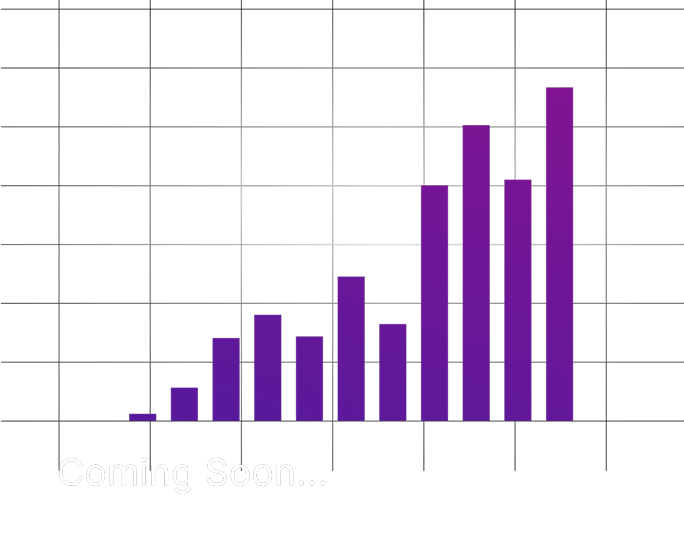
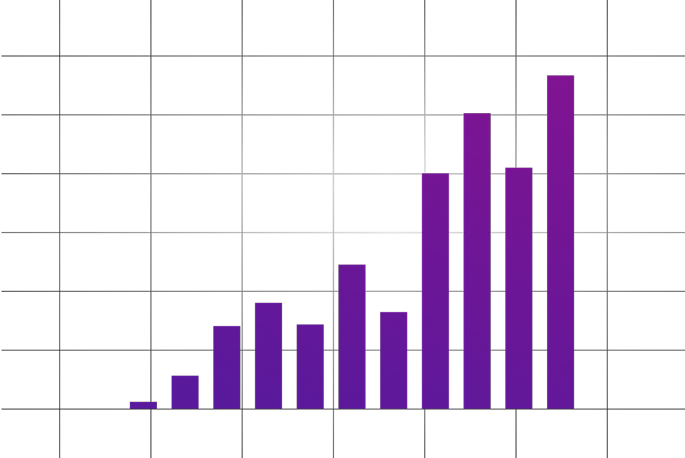
Dashboard auth page  (#1713)
* New images

* Add auth page

* Horizontal image

diff --git a/pages/dashboard/wallets/auth.tsx b/pages/dashboard/wallets/auth.tsx
@@ -1,0 +1,174 @@
+import { Flex, ListItem, SimpleGrid, UnorderedList } from "@chakra-ui/react";
+import { AppLayout } from "components/app-layouts/app";
+import { WalletsSidebar } from "core-ui/sidebar/wallets";
+import { PageId } from "page-id";
+import { ThirdwebNextPage } from "utils/types";
+import { Card, Heading, Text, TrackedLink } from "tw-components";
+import React, { useState } from "react";
+import { CodeSegment } from "components/contract-tabs/code/CodeSegment";
+import { CodeEnvironment } from "components/contract-tabs/code/types";
+
+const TRACKING_CATEGORY = "auth";
+
+const authSnippets = {
+  javascript: `import { ThirdwebSDK } from "@thirdweb-dev/sdk/evm";
+
+const sdk = new ThirdwebSDK("goerli");
+
+// Login with a single line of code
+const payload = await sdk.auth.login();
+
+// And verify the address of the logged in wallet
+const address = await sdk.auth.verify(payload);`,
+  react: `import { useSDK } from "@thirdweb-dev/react";
+
+export default function App() {
+ const sdk = useSDK();
+
+ async function login() {
+  // Login with a single line of code
+  const payload = await sdk.auth.login();
+
+  // And verify the address of the logged in wallet
+  const address = await sdk.auth.verify(payload);
+ }
+}`,
+  "react-native": "",
+  python: `from thirdweb import ThirdwebSDK
+
+sdk = ThirdwebSDK("goerli")
+
+# Login with a single line of code
+payload = sdk.auth.login();
+
+# And verify the address of the logged in wallet
+address = sdk.auth.verify(payload);`,
+  go: `import "github.com/thirdweb-dev/go-sdk/thirdweb"
+
+func main() {
+  sdk, err := thirdweb.NewThirdwebSDK("goerli", nil)
+
+  // Login with a single line of code
+  payload, err := sdk.Auth.Login()
+
+  // And verify the address of the logged in wallet
+  address, err := sdk.Auth.Verify(payload)
+}`,
+  unity: ``,
+};
+
+const DashboardWalletsAuth: ThirdwebNextPage = () => {
+  const [environment, setEnvironment] = useState<CodeEnvironment>("javascript");
+
+  return (
+    <Flex flexDir="column" gap={10} mt={{ base: 2, md: 6 }}>
+      <Flex flexDir="column" gap={4}>
+        <SimpleGrid columns={{ base: 1, lg: 2 }} gap={12}>
+          <Flex flexDir="column" gap={8}>
+            <Heading size="title.lg" as="h1">
+              Auth
+            </Heading>
+            <Text>
+              A developer SDK that lets you integrate passwordless web3-native
+              authentication and authorization into your applications.
+            </Text>
+
+            <TrackedLink
+              category={TRACKING_CATEGORY}
+              label="learn-more"
+              href="https://portal.thirdweb.com/auth"
+              color="blue.500"
+              isExternal
+            >
+              Learn more about Auth
+            </TrackedLink>
+          </Flex>
+        </SimpleGrid>
+      </Flex>
+
+      <Flex flexDir="column" gap={4}>
+        <Heading size="title.sm" as="h2">
+          Integrate into your app
+        </Heading>
+
+        <CodeSegment
+          environment={environment}
+          setEnvironment={setEnvironment}
+          snippet={authSnippets}
+        />
+      </Flex>
+
+      <SimpleGrid columns={{ base: 1, lg: 2 }} gap={4}>
+        <Card
+          as={Flex}
+          gap={4}
+          flex={1}
+          bg="linear-gradient(158.84deg, rgba(255, 255, 255, 0.05) 13.95%, rgba(255, 255, 255, 0) 38.68%)"
+          p={6}
+        >
+          <Flex flexDir={"column"} gap={2}>
+            <Heading size="title.sm" as="h1">
+              Docs
+            </Heading>
+            <UnorderedList>
+              <Text as={ListItem} color="blue.500">
+                <TrackedLink
+                  category={TRACKING_CATEGORY}
+                  label="docs"
+                  trackingProps={{ breakdown: "full-docs" }}
+                  href="https://portal.thirdweb.com/auth"
+                  isExternal
+                  _hover={{ opacity: 0.8 }}
+                  color="blue.500"
+                >
+                  Full Docs
+                </TrackedLink>
+              </Text>
+            </UnorderedList>
+          </Flex>
+        </Card>
+        <Card
+          as={Flex}
+          flexDir={"row"}
+          gap={4}
+          flex={1}
+          p={6}
+          overflow="hidden"
+          bg="linear-gradient(158.84deg, rgba(255, 255, 255, 0.05) 13.95%, rgba(255, 255, 255, 0) 38.68%)"
+        >
+          <Flex flexDir={"column"} gap={2}>
+            <Heading size="title.sm" as="h1">
+              Auth Guides
+            </Heading>
+            <UnorderedList>
+              <Text as={ListItem} color="blue.500">
+                <TrackedLink
+                  category={TRACKING_CATEGORY}
+                  label="guides"
+                  trackingProps={{ breakdown: "getting-started" }}
+                  href="https://portal.thirdweb.com/auth/getting-started"
+                  isExternal
+                  _hover={{ opacity: 0.8 }}
+                  color="blue.500"
+                >
+                  Getting started with Auth
+                </TrackedLink>
+              </Text>
+            </UnorderedList>
+          </Flex>
+        </Card>
+      </SimpleGrid>
+    </Flex>
+  );
+};
+
+DashboardWalletsAuth.getLayout = (page, props) => (
+  <AppLayout {...props} hasSidebar={true}>
+    <WalletsSidebar activePage="auth" />
+    {page}
+  </AppLayout>
+);
+
+DashboardWalletsAuth.pageId = PageId.DashboardWalletsAuth;
+
+export default DashboardWalletsAuth;

diff --git a/core-ui/sidebar/wallets.tsx b/core-ui/sidebar/wallets.tsx
@@ -2,7 +2,13 @@ import { SidebarNav } from "./nav";
 import { Route } from "./types";
 
 type WalletsSidebarProps = {
-  activePage: "connect" | "wallet-sdk" | "smart-wallet" | "embedded" | "local";
+  activePage:
+    | "connect"
+    | "wallet-sdk"
+    | "smart-wallet"
+    | "embedded"
+    | "local"
+    | "auth";
 };
 
 const links: Route[] = [
@@ -30,6 +36,11 @@ const links: Route[] = [
     path: "/dashboard/wallets/wallet-sdk",
     title: "Wallet SDK",
     name: "wallet-sdk",
+  },
+  {
+    path: "/dashboard/wallets/auth",
+    title: "Auth",
+    name: "auth",
   },
 ];
 

diff --git a/pages/connect.tsx b/pages/connect.tsx
@@ -205,6 +205,7 @@ const ConnectLanding: ThirdwebNextPage = () => {
               mobileImage={require("public/assets/product-pages/connect/mobile-account-abstraction.png")}
               TRACKING_CATEGORY={TRACKING_CATEGORY}
               href="https://portal.thirdweb.com/smart-wallet"
+              direction="horizontal"
             />
             <LandingCardWithImage
               title="Wallet analytics"

diff --git a/page-id.ts b/page-id.ts
@@ -132,6 +132,8 @@ export enum PageId {
   DashboardWalletsEmbedded = "dashboard-wallets-embedded",
   // thirdweb.com/dashboard/wallets/local
   DashboardWalletsLocal = "dashboard-wallets-local",
+  // thirdweb.com/dashboard/wallets/auth
+  DashboardWalletsAuth = "dashboard-wallets-auth",
 
   // thirdweb.com/dashboard/contracts/build
   DashboardContractsBuild = "dashboard-contracts-build",
